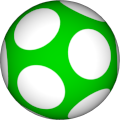
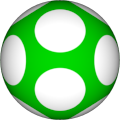
Refactored "Simplex noise"

diff --git a/src/patterns/simplex-noise.js b/src/patterns/simplex-noise.js
@@ -1,7 +1,25 @@
 
+//	Procedural Equirectangular Textures
+//	Simplex noise Pattern
+//
+//	pattern( ... )	- implements Simplex noise pattern
+//	options( opt )	- converts options into internal format
+//	share( opt )	- converts options into URL
+//	info			- general info for the generator
 
-import { Vector3, Color, MathUtils } from "three";
+
+
+import { Color } from "three";
 import { noise } from "../noise.js";
+
+
+
+function pattern( x, y, z, color, options, /*u, v, px, py, width, height*/ )
+{
+	var k = 0.5 - 0.5*noise( options.size*x, options.size*y, options.size*z );
+	
+	color.lerpColors( options.color, options.backgroundColor, k**options.balance );
+}
 
 
 
@@ -9,7 +27,8 @@ function options( opt )
 {
 	var options = { };
 	
-	options.size = 10.1-(opt.size??5);
+	options.size = 2**(-((opt.size??50)-100)/50 * 3 - 1);
+	options.balance = Math.exp(((opt.balance??50)-50)/10);
 	options.color = new Color( opt.color ?? 0xffffff );
 	options.backgroundColor = new Color( opt.backgroundColor ?? 0x000000 );
 	
@@ -19,24 +38,15 @@ function options( opt )
 
 
 
-function pattern( x, y, z, color, options, /*u, v, px, py, width, height*/ )
-{
-	var k = 0.5 - 0.5*noise( options.size*x, options.size*y, options.size*z );
-	
-	color.lerpColors( options.color, options.backgroundColor, k );
-}
-
-
-
-function share( options )
+function share( opt )
 {
 	var params = [];
 	
-	params.push( `b=${options.balance}` );
-	params.push( `c=${options.color}` );
-	params.push( `k=${options.backgroundColor}` );
-	params.push( `r=${options.resolution}` );
-	params.push( `s=${options.size}` );
+	params.push( `b=${opt.balance}` );
+	params.push( `c=${opt.color}` );
+	params.push( `k=${opt.backgroundColor}` );
+	params.push( `r=${opt.resolution}` );
+	params.push( `s=${opt.size}` );
 	
 	params = params.join( '&' );
 	
@@ -47,6 +57,7 @@ function share( options )
 
 var info = {
 		name: 'Simplex noise',
+		info: 'Designed for .map properties',
 		lightIntensity: 3,
 	};
 

diff --git a/online/simplex-noise.html b/online/simplex-noise.html
@@ -14,7 +14,8 @@
 	  {
 		"imports": {
 		  "three": "https://cdn.jsdelivr.net/npm/three@0.164.0/build/three.module.js",
-		  "three/addons/": "https://cdn.jsdelivr.net/npm/three@0.164.0/examples/jsm/"
+		  "three/addons/": "https://cdn.jsdelivr.net/npm/three@0.164.0/examples/jsm/",
+		  "pet/": "../src/"
 		}
 	  }
 	</script>
@@ -27,15 +28,16 @@
 
 		import * as THREE from "three";
 		import { model, canvas, installGui, urlOptions } from "./online.js";
-		import { pattern, options, share, info } from "../src/patterns/simplex-noise.js";
-		import { equimaterial, equitexture, noise } from "../src/texture-generator.js";
+		import { pattern, options, share, info } from "pet/patterns/simplex-noise.js";
+		import { equimaterial, equitexture, noise } from "pet/texture-generator.js";
 
 
 		var guiOptions = {
 				color: urlOptions.c ?? 0xFFFFFF,
 				backgroundColor: urlOptions.k ?? 0x000000,
-				resolution: urlOptions.r ?? 9,
-				size: urlOptions.s ?? 5,
+				resolution: urlOptions.r ?? 9, // 512x256
+				size: urlOptions.s ?? 30,
+				balance: urlOptions.a ?? 50,
 			};
 			
 		var gui = installGui( info, ()=>share(guiOptions), 'map' );
@@ -45,8 +47,13 @@
 			.onChange( onChange );
 			
 		gui.add( guiOptions, 'size' )
-			.min(0.1).max(10).step(0.1)
-			.name( 'Size' )
+			.min(0).max(100).step(1)
+			.name( 'Noise <right>size</right>' )
+			.onChange( onChange );
+			
+		gui.add( guiOptions, 'balance' )
+			.min(0).max(100).step(1)
+			.name( '<right>balance</right>' )
 			.onChange( onChange );
 			
 		gui.addColor( guiOptions, 'color' )

diff --git a/online/polka-dots.html b/online/polka-dots.html
@@ -53,7 +53,7 @@
 			.onChange( onChange );
 			
 		gui.add( guiOptions, 'size' )
-			.min(0).max(100).step(0.1)
+			.min(0).max(100).step(1)
 			.name( '<right>size</right>' )
 			.onChange( onChange );
 			
@@ -75,17 +75,6 @@
 		
 		function onChange( event )
 		{
-		/*
-			var maxDotSize = info.maxDotSize[guiOptions.arrangement]; 
-			
-			guiDotSize.max( maxDotSize );
-			
-			if( guiOptions.dotSize > maxDotSize )
-			{
-				guiOptions.dotSize = maxDotSize;
-			}
-			guiDotSize.updateDisplay( );
-*/			
 			model.material.map = equimaterial( equitexture(
 					pattern,
 					2<<guiOptions.resolution,

diff --git a/src/patterns/polka-dots.js b/src/patterns/polka-dots.js
@@ -145,8 +145,8 @@ function share( opt )
 
 var info = {
 		name: 'Polka dots',
+		info: 'Designed for .map properties',
 		maxArrangement: arrangements.length-1,
-		//maxSize: arrangements.map( e => e.maxSize ),
 	};
 
 

diff --git a/docs/patterns.md b/docs/patterns.md
@@ -4,6 +4,7 @@
 * [Concrete](#concrete) &ndash; grainy surface of concrete
 * [Isolines](#isolines) &ndash; looped concentric curves
 * [Polka dots](#polka-dots) &ndash; fashion design with dots
+* [Simplex noise](#simplex-noise) &ndash; gradient noise pattern
 
 
 Each predefined pattern is implemented as JS module file, exporting the same set of functions:
@@ -144,6 +145,34 @@ options = {
 
 
 
+
+
+
+
+# Simplex noise
+<img src="images/simplex-noise.jpg">
+
+[<img src="images/simplex-noise-1.png">](https://boytchev.github.io/texture-generator/online/simplex-noise?b=50&c=16777215&k=0&r=9&s=52) [<img src="images/simplex-noise-2.png">](https://boytchev.github.io/texture-generator/online/simplex-noise?b=78&c=16766208&k=0&r=9&s=57)  [<img src="images/simplex-noise-3.png">](https://boytchev.github.io/texture-generator/online/simplex-noise?b=44&c=13893887&k=11592439&r=9&s=86) 
+
+#### Options:
+
+* `color` (`c`) &ndash; integer; the color of simplex-noise
+* `backgroundColor` (`k`) &ndash; integer; the color of background
+* `resolution` (`r`) &ndash; integer; the resolution of the texture is 2<sup>r</sup>&times;2<sup>r-1</sup>
+* `size` (`s`) &ndash; number; the visual size of the pattern &#x2208; [0,100]
+* `balance` (`a`) &ndash; number; balance of foreground and background colors &#x2208; [0,100]
+
+#### Defaults:
+
+```js
+options = {
+	color: 0xffffff,
+	backgroundColor: 0x000000,
+	resolution: 9, // 512x256
+	size: 30,
+	balance: 50,
+}
+```
 
 
 
